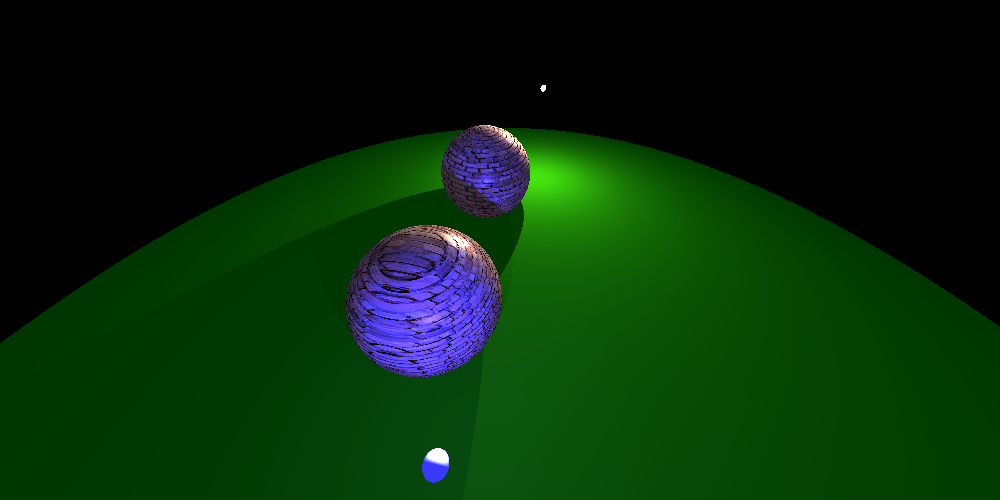
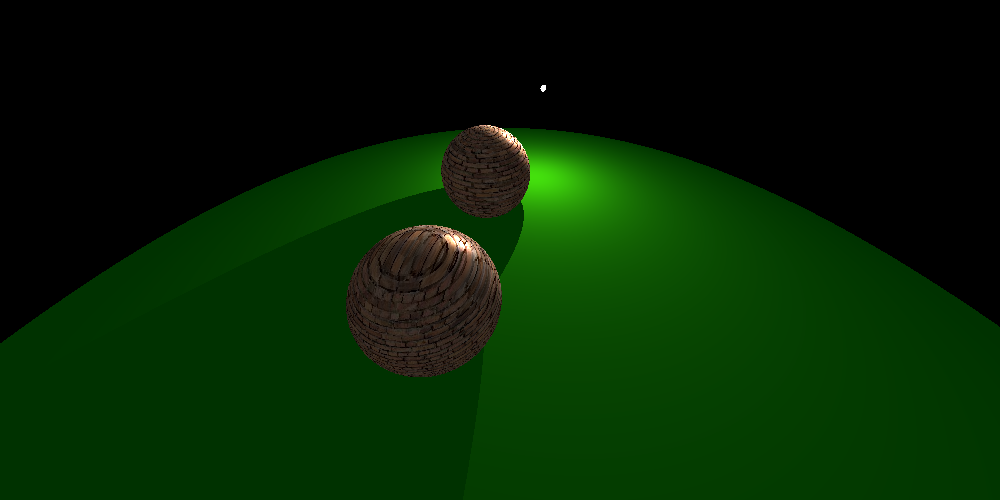
xD

Changed region(s): [[0.341, 0.45, 0.527, 0.78], [0.434, 0.24, 0.527, 0.45], [0.403, 0.9, 0.465, 0.96]]

diff --git a/IK_Raytracer/IK_Raytracer/IK_Raytracer.cpp b/IK_Raytracer/IK_Raytracer/IK_Raytracer.cpp
@@ -161,7 +161,7 @@ int main()
     std::vector<PointLight> pointLights;
     std::vector<DirectionalLight> directionalLights;
 
-    pointLights.push_back(PointLight(vec3(0.1, 0.1, 1.0), vec3(0.1, 0.1, 1.0), vec3(-10, 5, -1), 0.5f, 20.0f, 5.0f, 200.0f));
+    //pointLights.push_back(PointLight(vec3(0.1, 0.1, 1.0), vec3(0.1, 0.1, 1.0), vec3(-10, 5, -1), 0.5f, 20.0f, 5.0f, 200.0f));
     pointLights.push_back(PointLight(vec3(1.0, 1.0, 1.0), vec3(1.0, 1.0, 1.0), vec3(10, 5, -1), 0.5f, 20.0f, 5.0f, 200.0f));
 
     vec3 surLiPos = vec3(0, 1, 5);

diff --git a/IK_Raytracer/IK_Raytracer/Sphere.h b/IK_Raytracer/IK_Raytracer/Sphere.h
@@ -66,7 +66,7 @@ void Sphere::getSphereUV(const vec3& p, float& u, float& v) const
 {
 	if (isTexRect)
 	{
-		u = (p.x() + 1) / 2;
+		u = (p.z() + 1) / 2;
 		v = (p.y() + 1) / 2;
 	}
 	else
